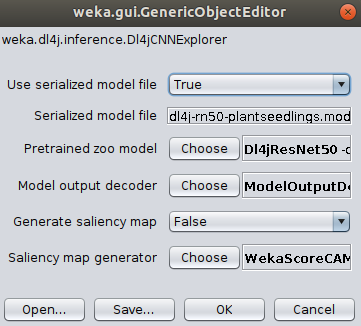
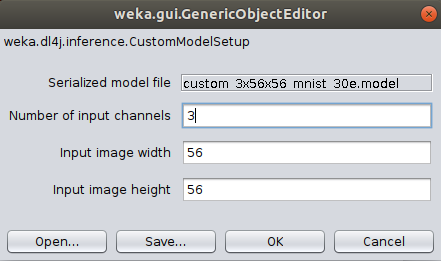
:pencil: Update docs for new CustomModelSetup

diff --git a/docs/examples/dl4j-inference.md b/docs/examples/dl4j-inference.md
@@ -125,8 +125,11 @@ which you'd like to experiment with; the process is largely the same as above, w
 
 On the `Dl4j Inference` panel, open the `Dl4jCNNExplorer` settings:
 
-- Set `Use serialized model file` to `True`
-- Select your previously saved `.model` file as the `Serialized model file`
+- Set `Use custom-trained model file` to `True`
+- Open the `CustomModelSetup` settings
+    - Select your previously saved `.model` file as the `Serialized model file`
+    - Set the input `channels`, `width`, and `height` with the values used to train the model. 
+    These values will be identical to those set on the `ImageInstanceIterator`. 
 - Open the `ModelOutputDecoder` settings:
     - Set `Built in class map` to `CUSTOM`
     - Select the `Class map file` on your machine. This can be in two forms:
@@ -160,12 +163,16 @@ to classify between different dog breeds isn't going to give accurate answers wh
 
 ### Command Line
 
+This example uses a custom-trained model which used an `ImageInstanceIterator` using 
+`channels`, `width`, and `height` of `3`, `56`, `56`, respectively. These values are explicitly
+defined in the `CustomModelSetup`.
+ 
 ```bash
 $ java weka.Run .Dl4jCNNExplorer \
-    -decoder ".ModelOutputDecoder -builtIn CUSTOM -classMapFile /path/to/classmap.txt" \
-    -model-file /path/to/saved/model/Dl4jMlpClassifier.model \
-    -use-model-file
-    -i /path/to/input/image.png
+    -i path/to/image.jpg \
+    -custom-model ".CustomModelSetup -channels 3 -height 56 -width 56 -model-file path/to/customModel.model" \
+    -decoder ".ModelOutputDecoder -builtIn CUSTOM -classMapFile path/to/training.arff" \
+    -useCustomModel
 ```
 
 ## Example 4: Saliency Map Generation
